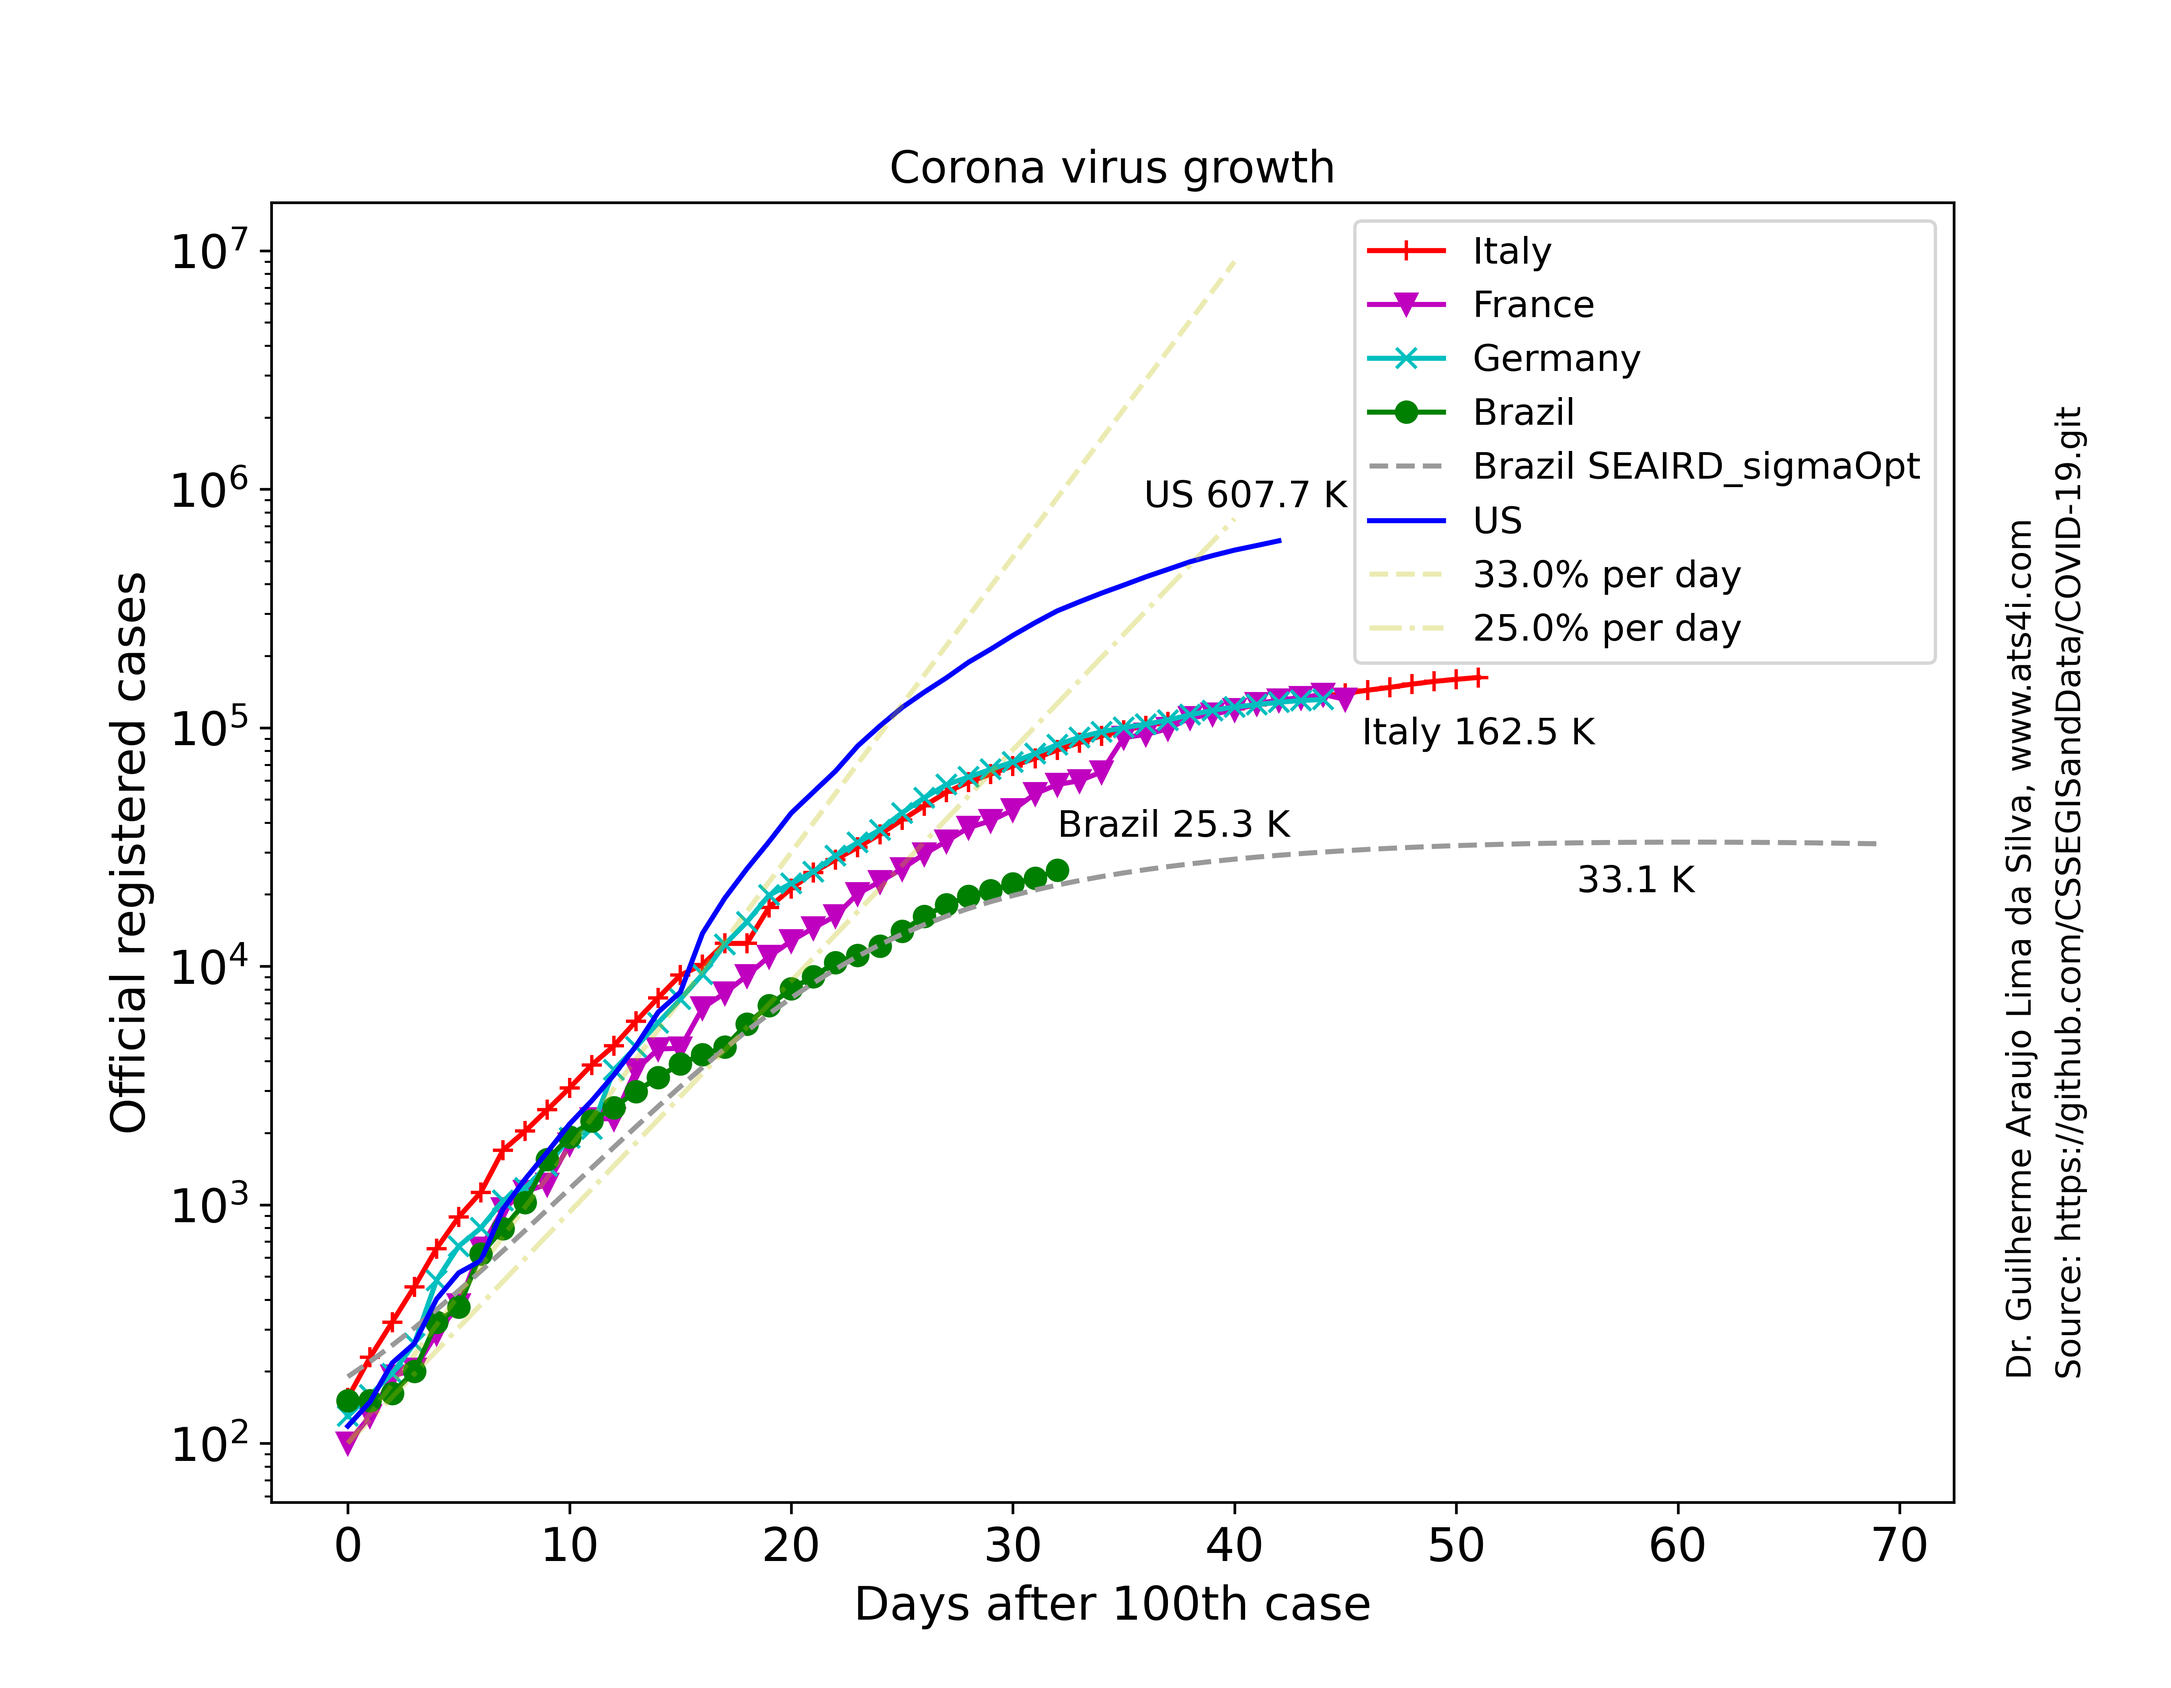
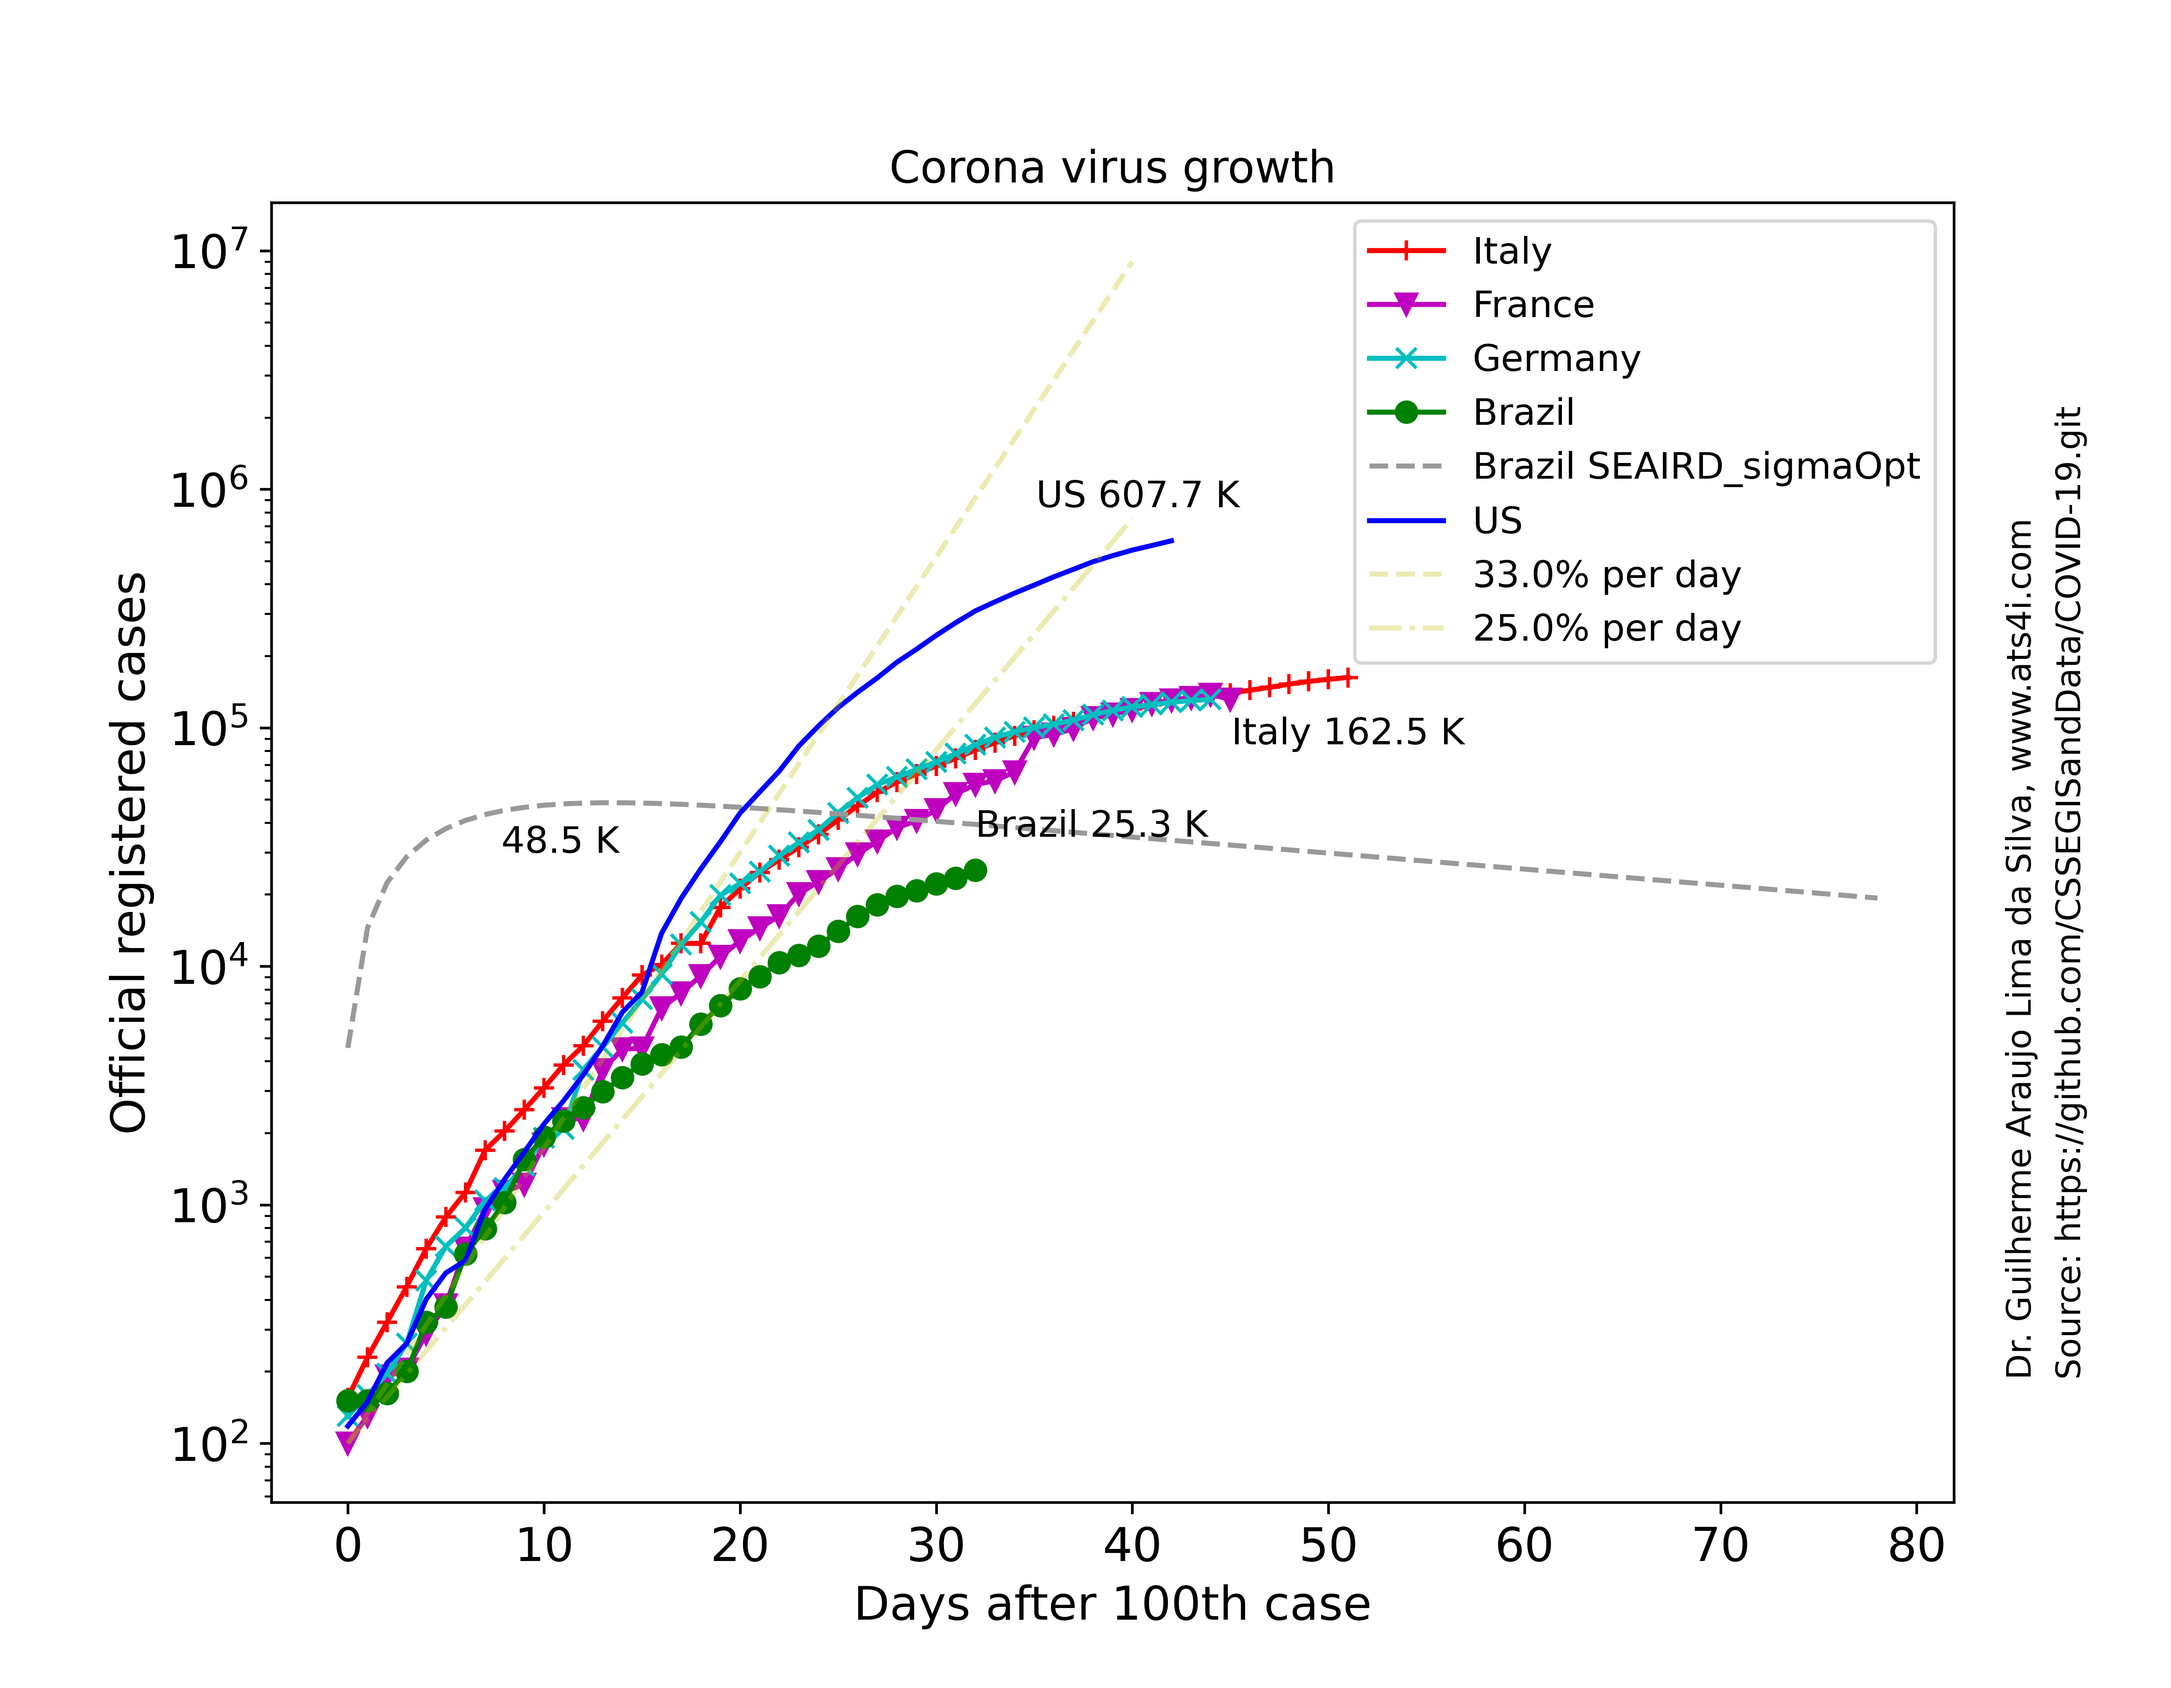
Update Maximum Time Step for Integration

diff --git a/dataFit_SEAIRD_sgimaOpt.py b/dataFit_SEAIRD_sgimaOpt.py
@@ -91,7 +91,7 @@ def parse_arguments(country):
 
     if country1=="Brazil":
         date="3/3/20"
-        s0=300e3
+        s0=400e3
         e0=1e-4
         i0=100
         r0=0
@@ -409,7 +409,7 @@ def lossOdeint(point, data, recovered, death, s_0, e_0, a_0, i_0, r_0, d_0):
 
     y0=[s_0,e_0,a_0,i_0,r_0,d_0]
     tspan=np.arange(0, size, 1)
-    res=odeint(SEAIRD,y0,tspan)
+    res=odeint(SEAIRD,y0,tspan,hmax=0.01)
 
     tot=0
     l1=0
@@ -426,7 +426,7 @@ def lossOdeint(point, data, recovered, death, s_0, e_0, a_0, i_0, r_0, d_0):
     l3=np.sqrt(l3/max(1,tot))
     
     #weight for cases
-    u = 0.1  #Brazil US 0.1
+    u = 0.5  #Brazil US 0.1
     #weight for recovered
     w = 0.2 #Brazil 0.2 US 0.1
     #weight for deaths
@@ -492,7 +492,7 @@ df=df.transpose()
 #opt=3 bar plot with growth rate
 #opt=4 log plot + bar plot
 #opt=5 SEAIR-D Model
-opt=0
+opt=5
 
 #prepare data for plotting log chart
 country1="US"
@@ -616,7 +616,6 @@ if opt==1 or opt==0 or opt==4:
             xy=(1.06,0.1), xycoords='axes fraction',
             xytext=(0, 0), textcoords='offset points',
             ha='left',rotation=90)
-
   
     plt.xlabel('Days after 100th case')
     plt.ylabel('Official registered cases')
